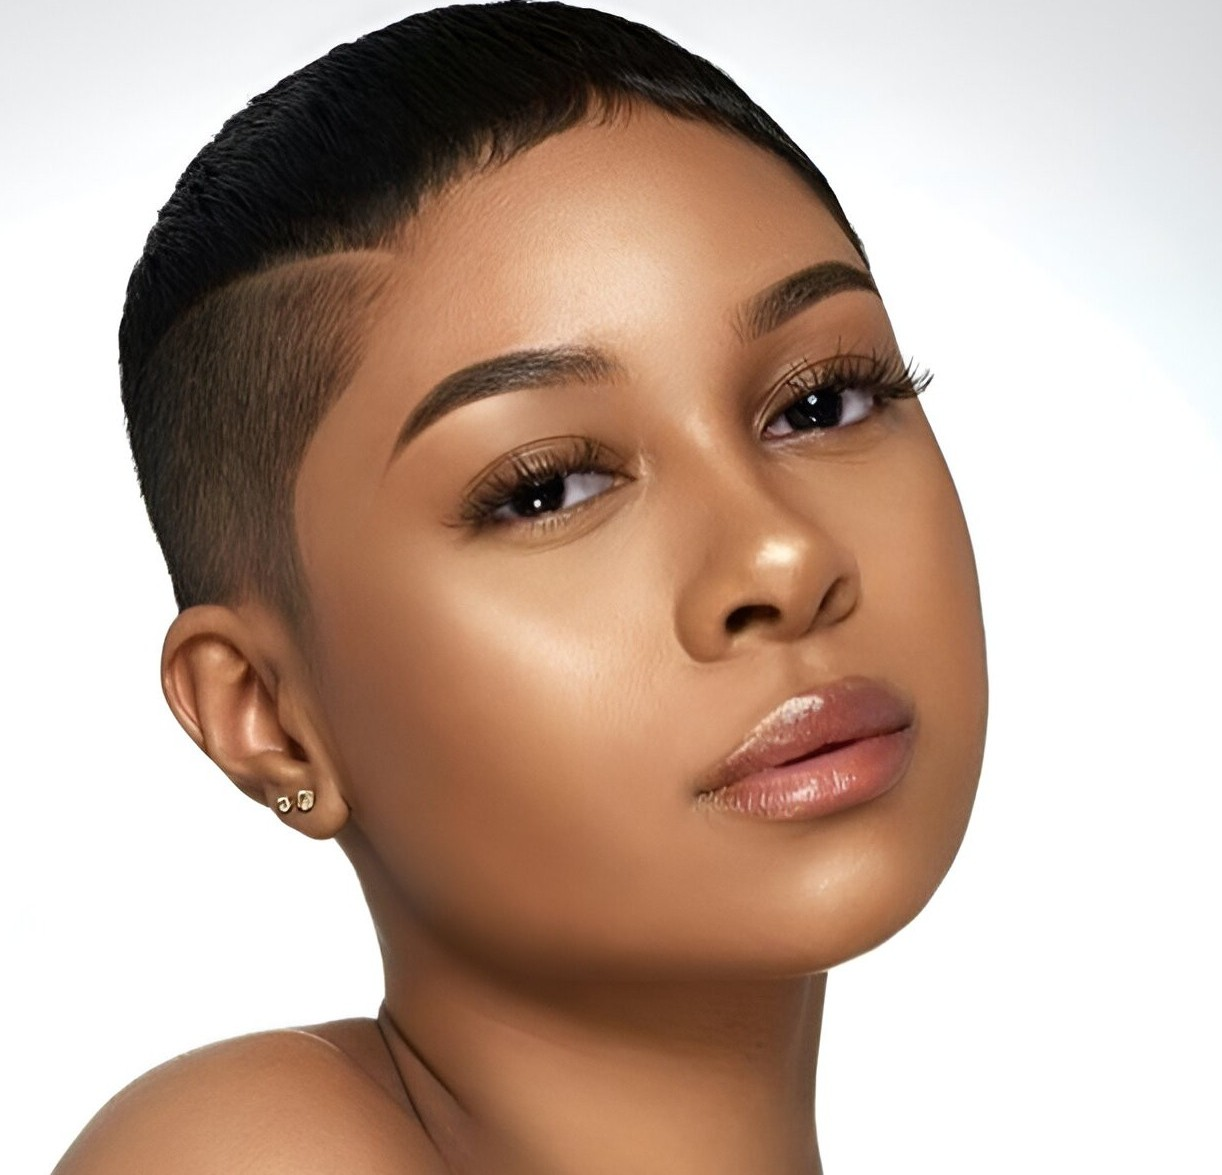
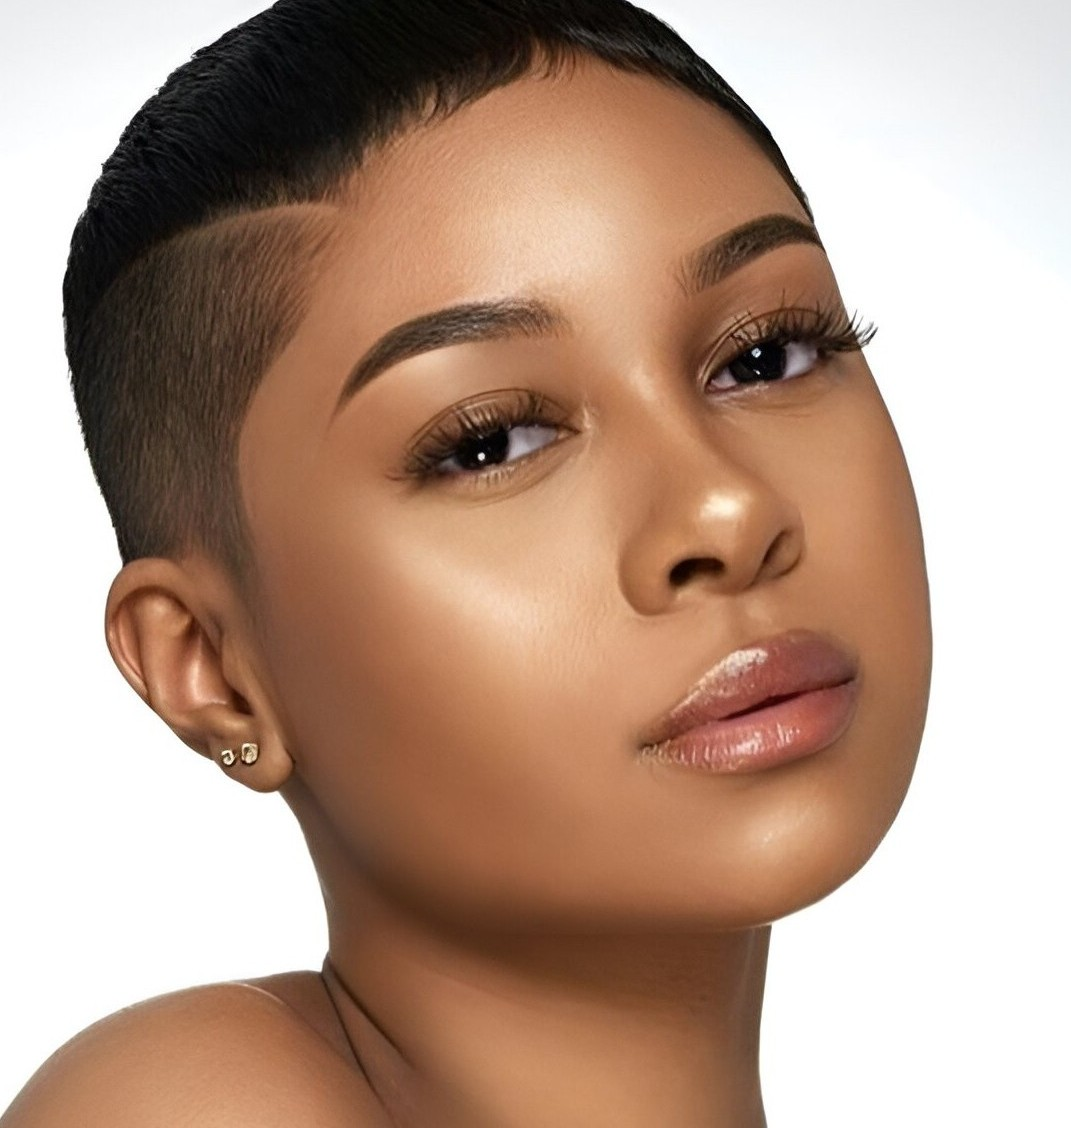
refactor: remove animations from HowItWorks section

Changed region(s): [[0.0, 0.0, 0.8936, 1.0], [0.493, 0.7757, 0.5238, 0.8067]]

diff --git a/components/home/HowItWorks.tsx b/components/home/HowItWorks.tsx
@@ -1,6 +1,3 @@
-"use client"
-
-import { motion } from "framer-motion"
 import Image from "next/image"
 import Section from "@/components/ui/Section"
 
@@ -30,96 +27,48 @@ export default function HowItWorks() {
     <Section background="white">
       {/* Section Header */}
       <div className="max-w-2xl mx-auto text-center mb-16">
-        <motion.h2 
-          className="text-5xl md:text-7xl lg:text-8xl xl:text-9xl font-black text-dark-900 mb-6 leading-tight tracking-wide font-sans"
-          initial={{ opacity: 0, y: 30 }}
-          whileInView={{ opacity: 1, y: 0 }}
-          viewport={{ once: true }}
-          transition={{ duration: 0.8 }}
-        >
+        <h2 className="text-5xl md:text-7xl lg:text-8xl xl:text-9xl font-black text-dark-900 mb-6 leading-tight tracking-wide font-sans">
           HOW IT WORKS
-        </motion.h2>
-        <motion.p 
-          className="text-lg md:text-xl text-dark-600 leading-relaxed font-sans"
-          initial={{ opacity: 0 }}
-          whileInView={{ opacity: 1 }}
-          viewport={{ once: true }}
-          transition={{ duration: 0.6, delay: 0.2 }}
-        >
+        </h2>
+        <p className="text-lg md:text-xl text-dark-600 leading-relaxed font-sans">
           Book your cut in 3 simple steps — select your service, pick your barber and time, and confirm instantly. No hassle, all convenience.
-        </motion.p>
+        </p>
       </div>
 
       {/* Steps */}
       <div className="grid grid-cols-1 md:grid-cols-3 gap-12 max-w-6xl mx-auto">
         {steps.map((step, index) => {
           return (
-            <motion.div
+            <div
               key={step.title}
-              initial={{ opacity: 0, y: 20 }}
-              whileInView={{ opacity: 1, y: 0 }}
-              transition={{ duration: 0.6, delay: index * 0.15 }}
-              viewport={{ once: true }}
               className="relative text-center"
             >
-              {/* Step number with animation */}
-              <motion.span 
-                className="block text-lg font-black text-accent-600 mb-6 tracking-wide font-sans"
-                initial={{ scale: 0, opacity: 0 }}
-                whileInView={{ scale: 1, opacity: 1 }}
-                viewport={{ once: true }}
-                transition={{ duration: 0.5, delay: index * 0.15 + 0.1 }}
-              >
+              {/* Step number */}
+              <span className="block text-lg font-black text-accent-600 mb-6 tracking-wide font-sans">
                 {step.number}
-              </motion.span>
+              </span>
 
-              {/* Icon Image with rotation */}
-              <motion.div 
-                className="flex items-center justify-center w-40 h-40 bg-white mx-auto mb-8"
-                initial={{ scale: 0.8, opacity: 0, rotate: -20 }}
-                whileInView={{ scale: 1, opacity: 1, rotate: 0 }}
-                viewport={{ once: true }}
-                transition={{ duration: 0.6, delay: index * 0.15 + 0.2 }}
-                whileHover={{ scale: 1.1, rotate: 5 }}
-              >
-                <motion.div
-                  initial={{ rotate: 0 }}
-                  whileInView={{ rotate: 360 }}
-                  viewport={{ once: true }}
-                  transition={{ duration: 1.2, delay: index * 0.15 + 0.3 }}
-                >
-                  <Image
-                    src={step.iconImage}
-                    alt={`${step.title} icon`}
-                    width={120}
-                    height={120}
-                    className="w-30 h-30 object-contain"
-                  />
-                </motion.div>
-              </motion.div>
+              {/* Icon Image */}
+              <div className="flex items-center justify-center w-40 h-40 bg-white mx-auto mb-8">
+                <Image
+                  src={step.iconImage}
+                  alt={`${step.title} icon`}
+                  width={120}
+                  height={120}
+                  className="w-30 h-30 object-contain"
+                />
+              </div>
 
-              {/* Title with fade-in */}
-              <motion.h3 
-                className="text-2xl font-black text-dark-900 mb-4 tracking-wide font-sans"
-                initial={{ opacity: 0 }}
-                whileInView={{ opacity: 1 }}
-                viewport={{ once: true }}
-                transition={{ duration: 0.5, delay: index * 0.15 + 0.3 }}
-              >
+              {/* Title */}
+              <h3 className="text-2xl font-black text-dark-900 mb-4 tracking-wide font-sans">
                 {step.title}
-              </motion.h3>
+              </h3>
 
-              {/* Description with fade-in */}
-              <motion.p 
-                className="text-black max-w-xs mx-auto leading-relaxed font-sans"
-                initial={{ opacity: 0, y: 10 }}
-                whileInView={{ opacity: 1, y: 0 }}
-                viewport={{ once: true }}
-                transition={{ duration: 0.5, delay: index * 0.15 + 0.4 }}
-              >
+              {/* Description */}
+              <p className="text-black max-w-xs mx-auto leading-relaxed font-sans">
                 {step.description}
-              </motion.p>
-            </motion.div>
+              </p>
+            </div>
           )
         })}
       </div>

diff --git a/components/home/Hero.tsx b/components/home/Hero.tsx
@@ -38,7 +38,7 @@ export default function Hero() {
           transition={{ duration: 0.8, ease: "easeOut", delay: 0.2 }}
         >
           <Image
-            src={encodeURI("/Images/download_women.jpg")}
+            src={encodeURI("/Images/Gemini_Generated_Image_pbg9bcpbg9bcpbg9.png")}
             alt="Short Haircut for Women"
             fill
             className="object-cover object-center md:object-left brightness-90 contrast-110"
